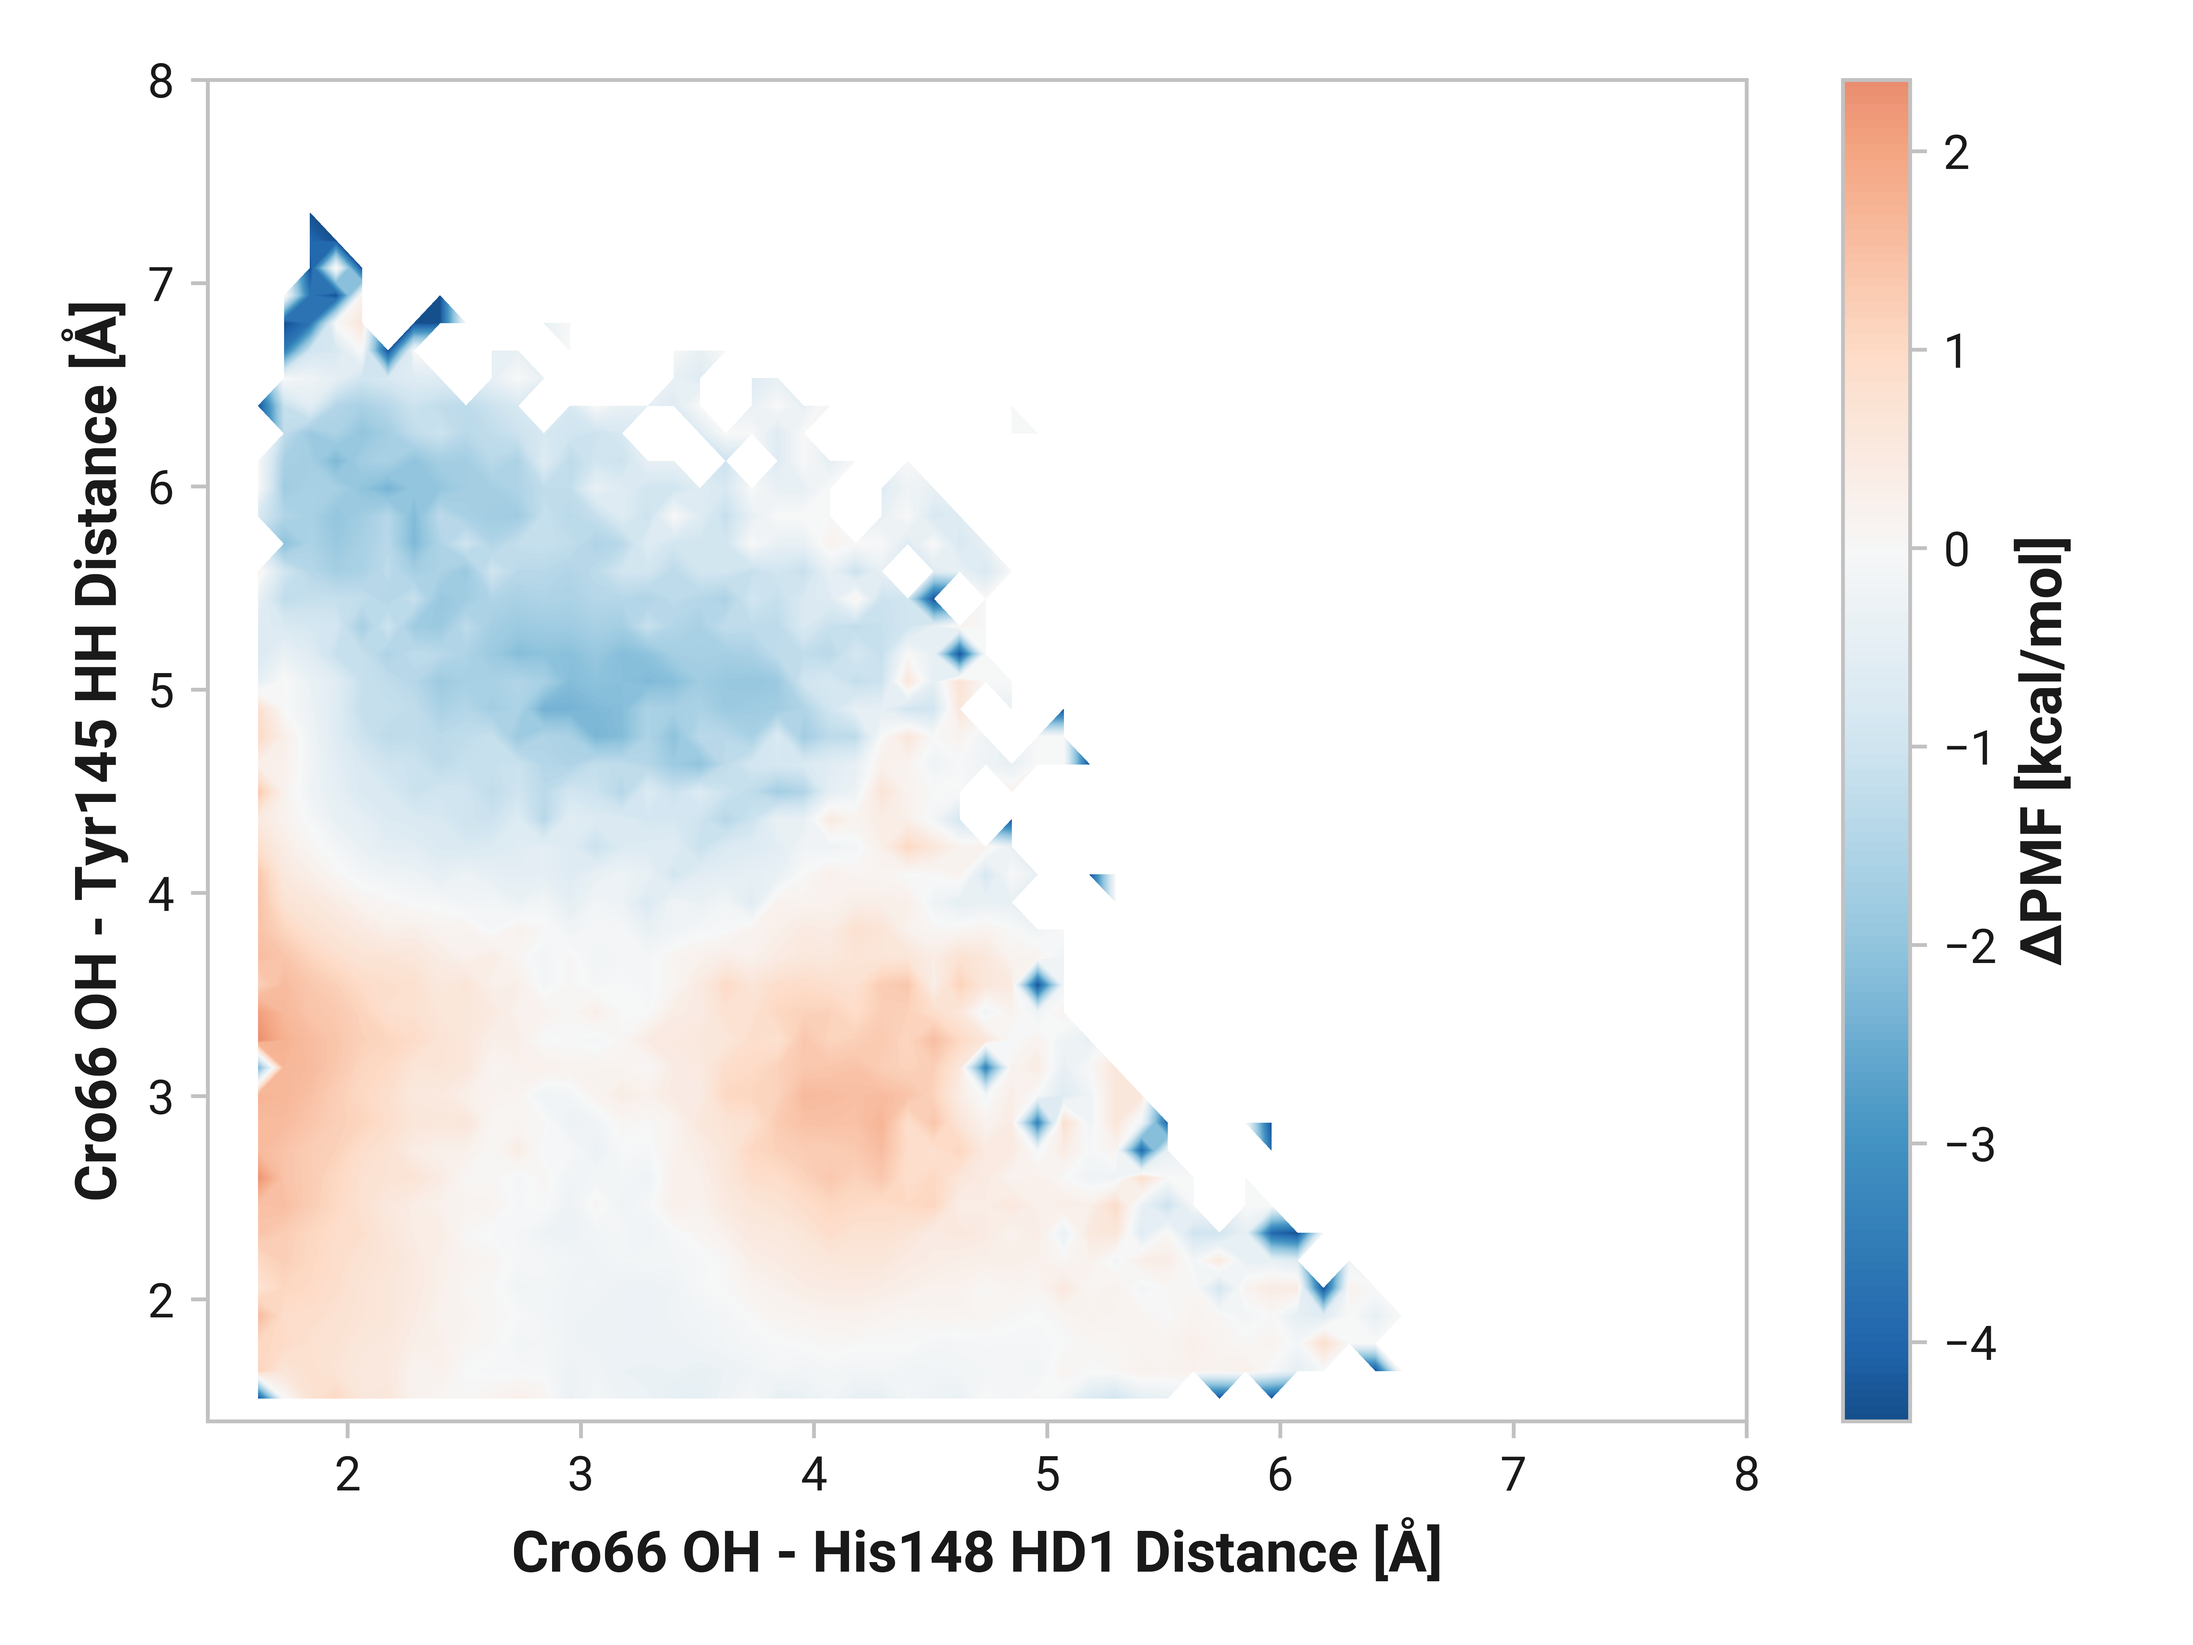
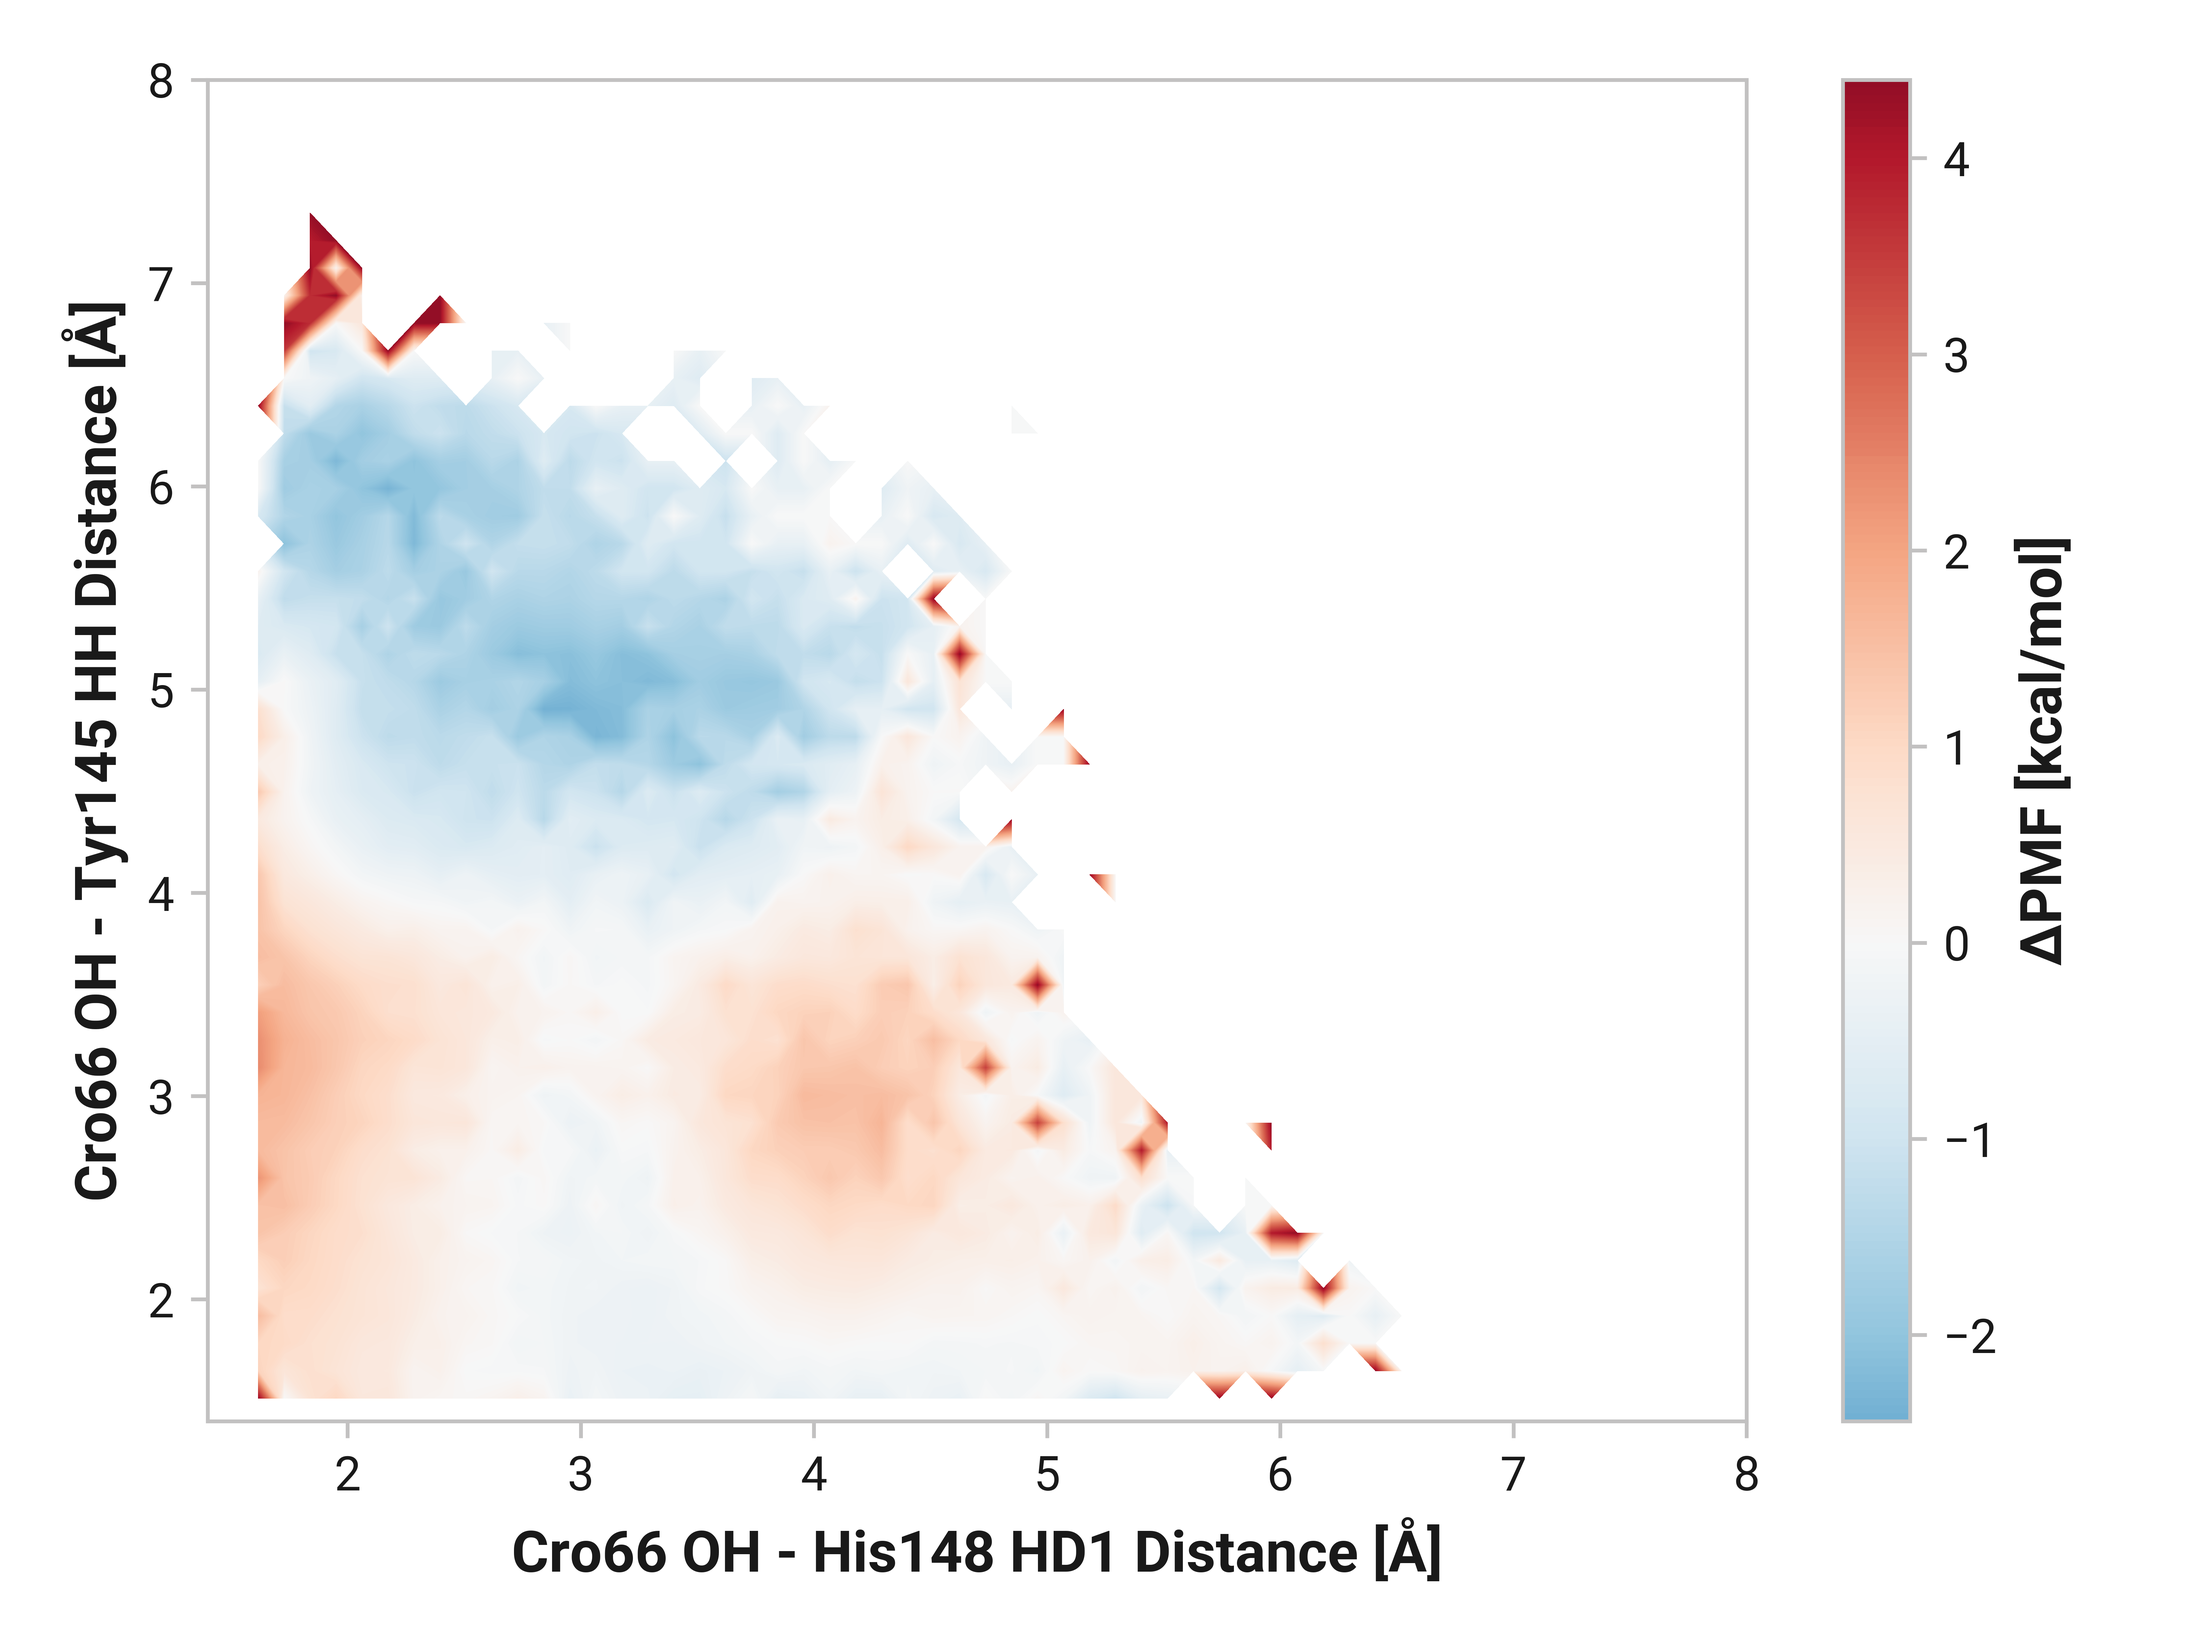
Fix b004

diff --git a/study/figures/b-cro-between/b004-his148_hd1-tyr145_hh/pes.py b/study/figures/b-cro-between/b004-his148_hd1-tyr145_hh/pes.py
@@ -68,9 +68,8 @@ def masked_difference(hist_ref, hist):
     mask_not_in_ref = np.where(hist_ref.mask & ~hist.mask)
     mask_only_in_ref = np.where(~hist_ref.mask & hist.mask)
     diff[mask_not_in_ref] = hist[mask_not_in_ref] - np.max(hist)
-    diff[mask_only_in_ref] = -hist_ref[mask_only_in_ref]
+    diff[mask_only_in_ref] = hist_ref[mask_only_in_ref]
 
-    # The result is not masked
     return diff
 
 
@@ -115,42 +114,42 @@ if __name__ == "__main__":
     use_mpl_rc_params(rc_json_path, font_dirs)
 
     # Original data
-    rogfp_dist_path = os.path.join(
+    path_x_red = os.path.join(
         base_dir,
         f"analysis/005-rogfp-glh-md/data/struct-desc/{data_x_str}.npy",
     )
-    data_x_red = np.load(rogfp_dist_path)
+    data_x_red = np.load(path_x_red)
 
-    data_x_oxd_path = os.path.join(
+    path_x_oxd = os.path.join(
         base_dir,
         f"analysis/007-rogfp-oxd-glh-md/data/struct-desc/{data_x_str}.npy",
     )
-    data_x_oxd = np.load(data_x_oxd_path)
+    data_x_oxd = np.load(path_x_oxd)
 
-    rogfp_cu_dist_path = os.path.join(
+    path_x_cu = os.path.join(
         base_dir,
         f"analysis/006-rogfp-cu-glh-md/data/struct-desc/{data_x_str}.npy",
     )
-    data_x_cu = np.load(rogfp_cu_dist_path)
+    data_x_cu = np.load(path_x_cu)
 
     # Cys data
-    data_y_red_path = os.path.join(
+    path_y_red = os.path.join(
         base_dir,
         f"analysis/005-rogfp-glh-md/data/struct-desc/{data_y_str}.npy",
     )
-    data_y_red = np.load(data_y_red_path)
+    data_y_red = np.load(path_y_red)
 
-    data_y_oxd_path = os.path.join(
+    path_y_oxd = os.path.join(
         base_dir,
         f"analysis/007-rogfp-oxd-glh-md/data/struct-desc/{data_y_str}.npy",
     )
-    data_y_oxd = np.load(data_y_oxd_path)
+    data_y_oxd = np.load(path_y_oxd)
 
-    data_y_cu_path = os.path.join(
+    path_y_cu = os.path.join(
         base_dir,
         f"analysis/006-rogfp-cu-glh-md/data/struct-desc/{data_y_str}.npy",
     )
-    data_y_cu = np.load(data_y_cu_path)
+    data_y_cu = np.load(path_y_cu)
 
     create_pes(data_x_red, data_y_red, f"{fig_label}-reduced.png")
     create_pes(data_x_oxd, data_y_oxd, f"{fig_label}-oxidized.png")
